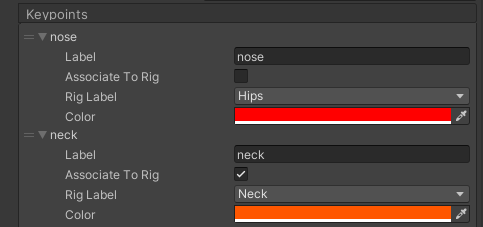
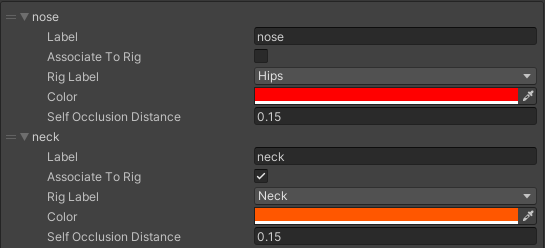
Updates to documentation

diff --git a/com.unity.perception/Documentation~/GroundTruth/KeypointLabeler.md b/com.unity.perception/Documentation~/GroundTruth/KeypointLabeler.md
@@ -23,8 +23,9 @@ keypoints {
 
 The `state` entry has three possible values: 
 * 0 - the keypoint either does not exist or is outside of the image's bounds
-* 1 - the keypoint exists inside of the image bounds but cannot be seen because the object is not visible at its location in the image
-* 2 - the keypoint exists and the object is visible at its location
+* 1 - the keypoint is defined and inside of the image's bounds but cannot be seen because it is either occluded by 
+another object or itself
+* 2 - the keypoint exists and is visible at its location
 
 The annotation definition, captured by the Keypoint Labeler once in each dataset, describes points being captured and their skeletal connections. These are defined by the [Keypoint Template](#KeypointTemplate).
 ```
@@ -58,6 +59,16 @@ The Keypoint Labeler captures keypoints each frame from each object in the scene
 
 For a tutorial on setting up your project for keypoint labeling, see the [Human Pose Labeling and Randomization Tutorial](../HPTutorial/TUTORIAL.md).
 
+## Keypoint Self Occlusion
+A keypoint will be considered not visible if it outside of the camera's view, the camera cannot see it because
+another object is occluding it (in between the camera and the keypoint), or another part of its own model is occluding it (for
+example a human model's arm is raised and blocking its face from view). The keypoint is a point in space generally internal
+to the model, for example the elbow joint is in the center of the arm volume. A self occlusion distance value has
+been added to each keypoint allowing the keypoint to have depth. If a keypoint is occluded by itself, then this value is added to keypoint location to see
+if that location is now closer than the mesh which is occluding the object. If it is then the keypoint will be marked as visible,
+if it is not, then the keypoint will be marked as not visible. In the case of the elbow, the distance should be enough that
+it is not blocked by the volume of the arm.  
+
 ## Keypoint Template
 
 Keypoint Templates are used to define the keypoints and skeletal connections captured by the Keypoint Labeler. The Keypoint Template takes advantage of Unity's humanoid animation rig, and allows the user to automatically associate template keypoints to animation rig joints. Additionally, the user can choose to ignore the rigged points, or add points not defined in the rig.
@@ -77,9 +88,10 @@ In the header section, a user can change the name of the template and supply tex
 <br/>_Keypoint section of the keypoint template_
 
 The keypoint section allows the user to create/edit keypoints and associate them with Unity animation rig points. Each keypoint record
-has 4 fields: label (the name of the keypoint), Associate to Rig (a boolean value which, if true, automatically maps the keypoint to
+has 5 fields: label (the name of the keypoint), Associate to Rig (a boolean value which, if true, automatically maps the keypoint to
 the GameObject defined by the rig), Rig Label (only needed if Associate To Rig is true, defines which rig component to associate with
-the keypoint), and Color (RGB color value of the keypoint in the visualization).
+the keypoint), Color (RGB color value of the keypoint in the visualization), and Self Occlusion Distance (length to use to determine if a 
+keypoint is not occluded by itself).
 
 ![Skeleton section of the keypoint template](../images/keypoint_template_skeleton.png)
 <br/>_Skeleton section of the keypoint template_
